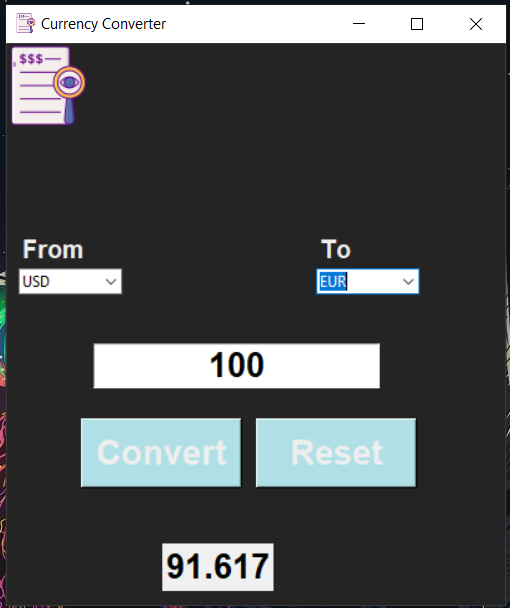
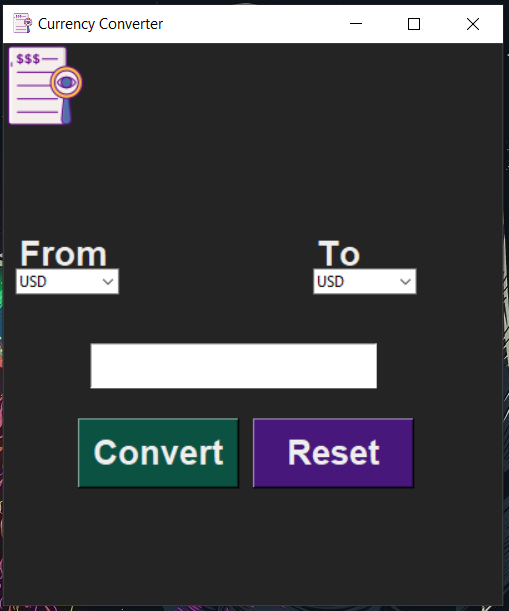
Reorganized code with partially separated design from functionality

diff --git a/Main.py b/Main.py
@@ -2,46 +2,43 @@
 from tkinter import *
 from forex_python.converter import CurrencyRates
 from tkinter import ttk
+from design import configure_the_window, from_to_labels
 
 # Create a tkinter window object
 window = Tk()
-
-# Configure the window with a background color, size, and title
-window.config(bg="#242424")
-window.geometry("400x450")
-window.title("Currency Converter")
-
-# Create an image object and label for the program icon
-img = PhotoImage(file="./Images/icon.png")
-photo_label = Label(window,image=img, bg="#242424")
-photo_label.place(x=0, y=0)
-window.iconphoto(False, img)
-
-# Create labels for "From" and "To" currencies and set their positions
-from_label = Label(window, text="From", font=("Arial 15 bold"), bg="#242424", fg="#EEEEEE")
-to_label = Label(window, text="To", font=("Arial 15 bold"), bg="#242424", fg="#EEEEEE")
-from_label.place(x=10, y=150)
-to_label.place(x=248, y=150)
-
 # Create StringVar objects to store the selected currencies
 from_variable = StringVar()
 to_variable = StringVar()
+# Create a StringVar object to store the converted amount and a function to convert the currency
+txt = StringVar()
+# font, font size and type of text used for text
+font_size_type = "Arial 20 bold"
+currency_list = ["USD", "EUR", "GBP", "CHF", "CAD", "ZAR", "HKD"]
+
+# Configure the window with a background color, size, and title
+configure_the_window(window)
+
+# Labels for "From" and "To" currencies
+from_to_labels(window, font_size_type)
+
+# Create an image object and label for the program icon
+img = PhotoImage(file="./Images/icon.png")
+Label(window,image=img, bg="#242424").place(x=0, y=0)
+window.iconphoto(False, img)
 
 # Create comboboxes for selecting the "From" and "To" currencies and set their positions
-from_menu = ttk.Combobox(window, values=["USD", "EUR", "GBP", "CHF", "CAD", "ZAR", "HKD"], width=10, textvariable=from_variable)
+from_menu = ttk.Combobox(window, values = currency_list, width=10, textvariable=from_variable)
 from_menu.place(x=10, y=180)
 from_menu.current(0)
 
-to_menu = ttk.Combobox(window, values=["USD", "EUR", "GBP", "CHF", "CAD", "ZAR", "HKD"], width=10, textvariable=to_variable)
+to_menu = ttk.Combobox(window, values=currency_list, width=10, textvariable=to_variable)
 to_menu.place(x=248, y=180)
 to_menu.current(0)
 
 # Create an entry widget for entering the amount to convert
-amount_entry = Entry(window, font=("Arial 20 bold"), width=15, justify=CENTER)
+amount_entry = Entry(window, font=(font_size_type), width=15, justify=CENTER)
 amount_entry.place(x=70, y=240)
 
-# Create a StringVar object to store the converted amount and a function to convert the currency
-txt = StringVar()
 
 def convert():
     # Get the selected currencies and create a CurrencyRates object
@@ -54,7 +51,7 @@ def convert():
         ans = curent.convert(from_currency, to_currency, float(amount_entry.get()))
         amount = float("{:.3f}".format(ans))
         txt.set(amount)
-        result_label = Label(window, textvariable=txt, font=("Arial 20 bold"))
+        result_label = Label(window, textvariable=txt, font=(font_size_type), bg="#242424", fg="#EEEEEE")
         result_label.place(x=125, y=400)
     # If no amount was entered, display an error message
     else:
@@ -66,10 +63,10 @@ def reset():
     txt.set("")
 
 # Create buttons for converting and resetting and set their positions
-convert_button = Button(window, command=convert, text="Convert", font=("Arial 20 bold"), fg="#EEEEEE", bg="#B0E0E6", width=7)
+convert_button = Button(window, command=convert, text="Convert", font=(font_size_type), fg="#EEEEEE", bg="#0C5243", width=7)
 convert_button.place(x=60, y=300)
 
-reset_button = Button(window, command=reset, text="Reset", font=("Arial 20 bold"), fg="#EEEEEE", bg="#B0E0E6", width=7)
+reset_button = Button(window, command=reset, text="Reset", font=(font_size_type), fg="#EEEEEE", bg="#47177B", width=7)
 reset_button.place(x=200, y=300)
 
 # Start

diff --git a/design.py b/design.py
@@ -1,0 +1,12 @@
+from tkinter import *
+
+# Configure the window with a background color, size, and title
+def configure_the_window(window):
+    window.config(bg="#242424")
+    window.geometry("400x450")
+    window.title("Currency Converter")
+
+# Create labels for "From" and "To" currencies and set their positions
+def from_to_labels(window, font_size_type):
+    Label(window, text="From", font=(font_size_type), bg="#242424", fg="#EEEEEE").place(x=10, y=150)
+    Label(window, text="To", font=(font_size_type), bg="#242424", fg="#EEEEEE").place(x=248, y=150)
